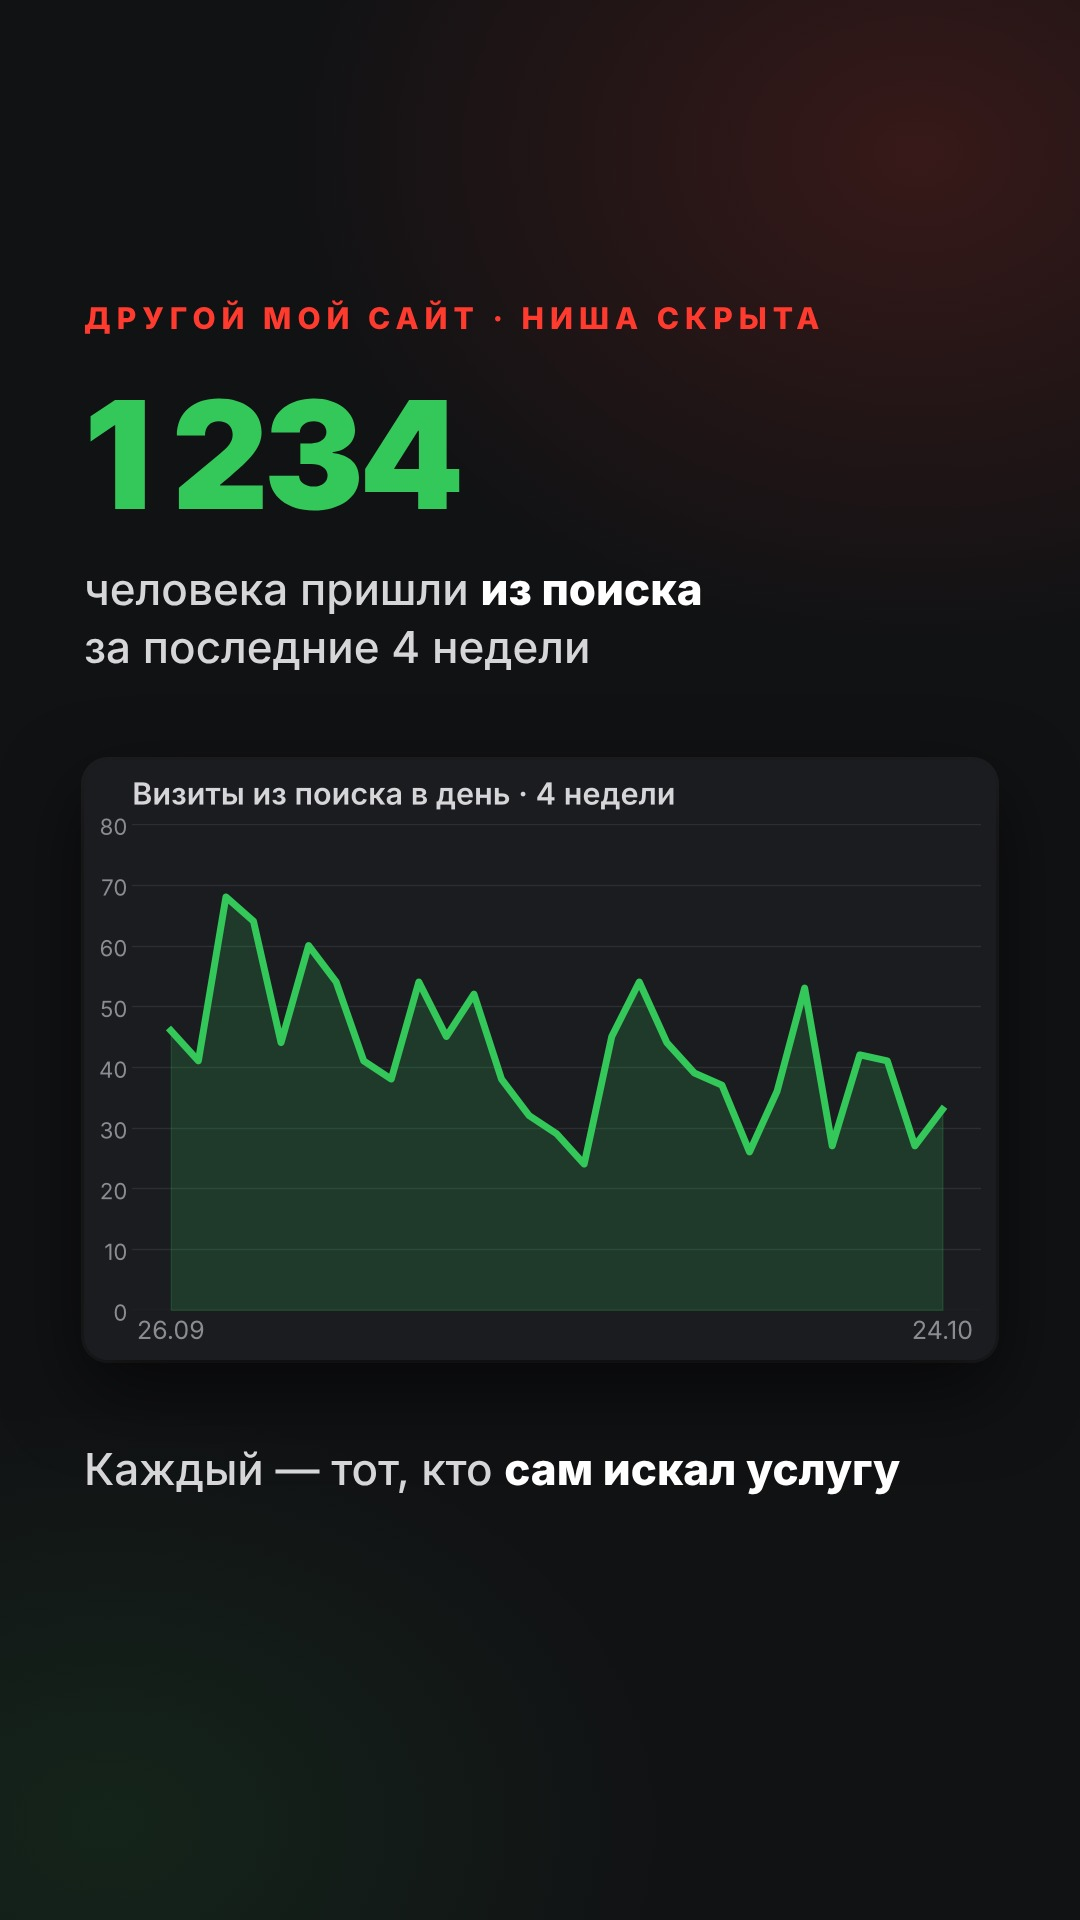
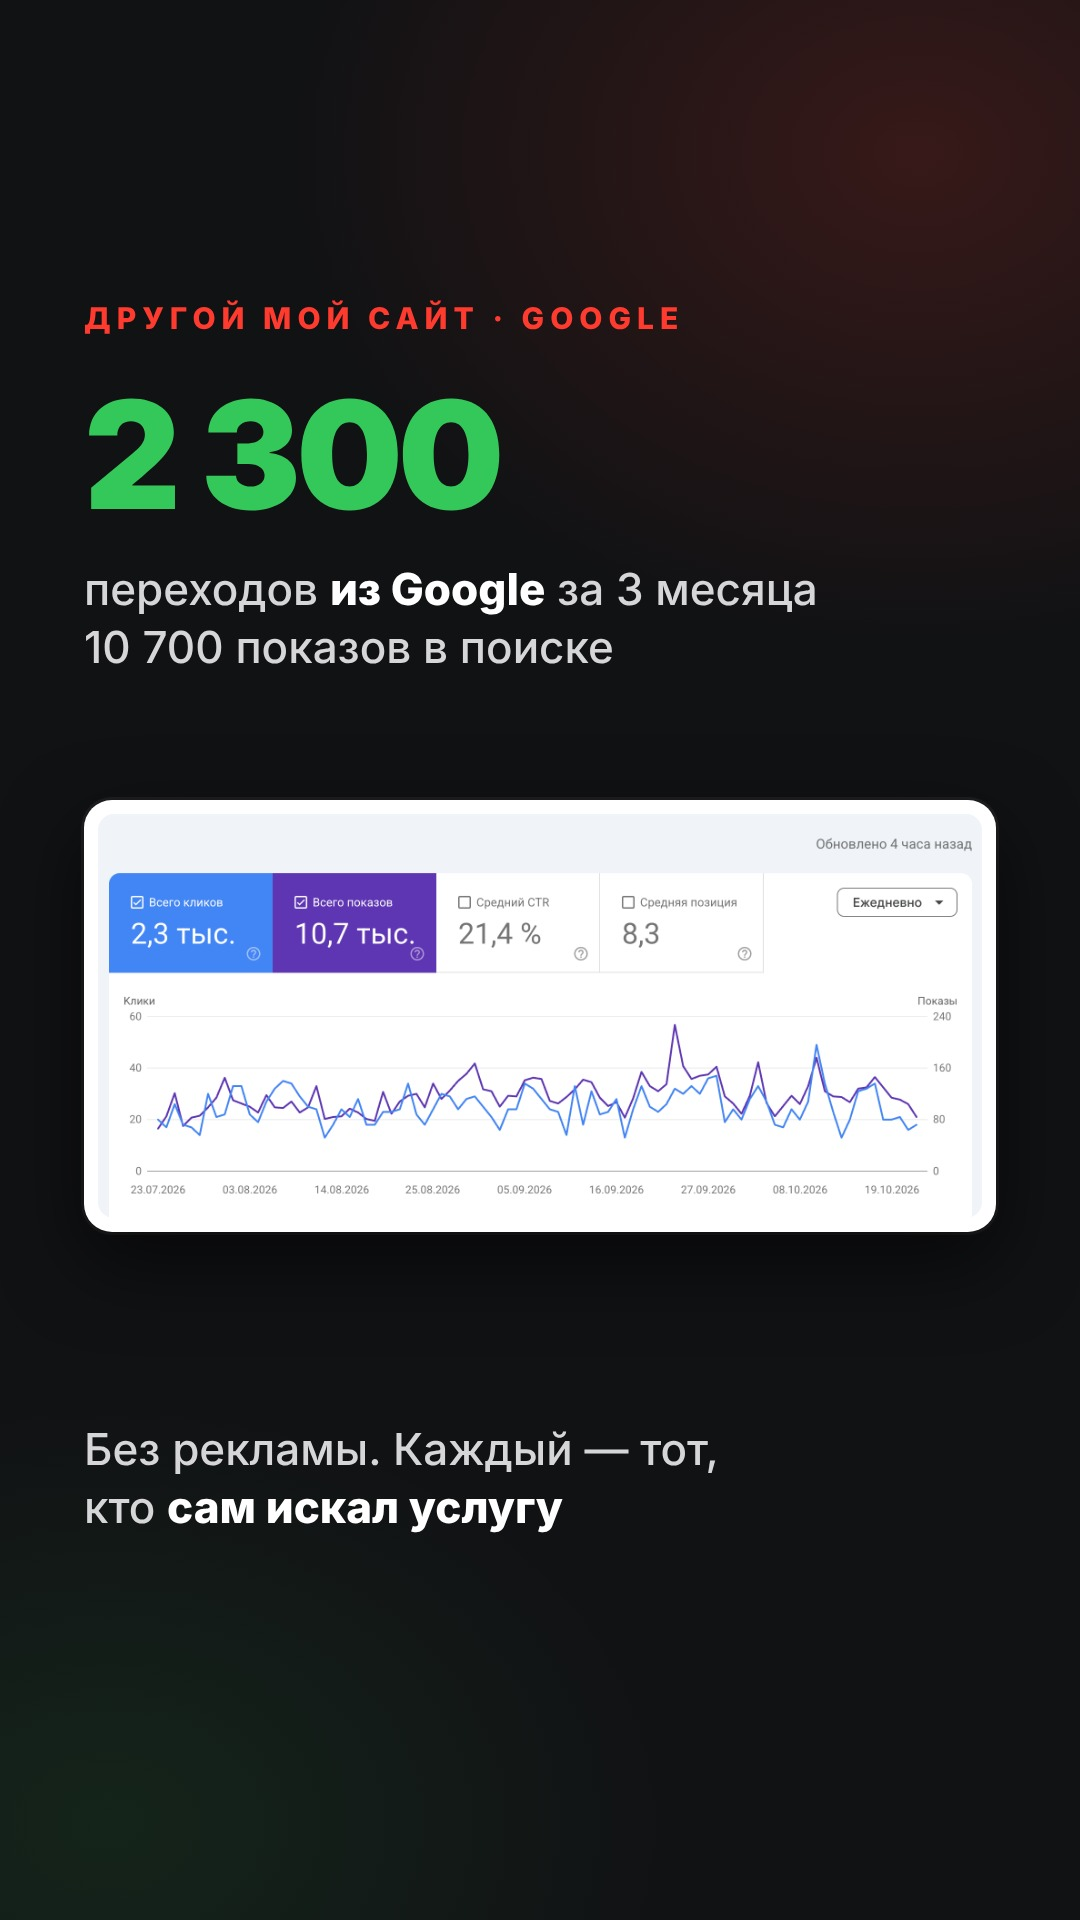
main4: GSC slide
Claude-Session: https://claude.ai/code/session_017uagM8DU7Cq2tvJ6ZU4ZAe

diff --git a/CLAUDE.md b/CLAUDE.md
@@ -264,4 +264,4 @@
 - ⚠ 24.10 kie_raw ждал только 10 мин → Kling (15–30 мин) падал по таймауту и taskId терялся (2 прогона ≈370 кр впустую: ЗАГС 4a84c1bc64 и частушки-3 06360b9803; результаты, возможно, видны в логах кабинета kie.ai). Kling делать ТОЛЬКО через story compose с частью {lipsync, image, prompt} (ждёт до 90 мин). Исправлено и задеплоено 24.10 21:55: kie_raw для kling/avatar ждёт 90 мин, taskId пишется в лог и в ошибку, model "_record" {taskId} — достать результат задачи. Перезапуск: alina-babushka dd343f27dc, alina-chast3 384f072efa.
 - 24.10 ГОТОВО (ждут «ок»): частушки-3 /f/alina-chast3/reel.mp4 (24,2 с, 192 кр, чисто); ЗАГС /f/alina-babushka/reel.mp4 = исходник Kling (23 с, 184 кр) — Kling нарисовал фейк-текст на халате бабушки 6–9,5 и 16–18,5 с → размыт delogo (x380 y1450 w420 h110) локально: media/alina/zags_clean.mp4. Кроп [0.12,0,0.76,0.76] для этой сцены плох (лица внизу, пусто сверху). ⚠ На групповом кадре Kling анимирует губы у ЦЕНТРАЛЬНОГО лица (бабушки) — для «поёт Алина» ставить Алину в центр и крупнее.
 - 24.10 ОПУБЛИКОВАНО: частушки-3 IG Алины 24.10 21:56 (id 91, instagram.com/reel/De408RQGqbt) + YouTube «Алина поёт» сразу (Postiz cmvmrgsj504t8n31co4m97utq). ЗАГС (reel_clean.mp4): IG 25.10 20:00 (id 92), YouTube 25.10 20:00 (cmvmrgsmr04t9n31czg07gw7w). Не поставлены ещё: ch1, ch2, alina-papa (IG). Новые ролики Алины нужны с 26.10.
-- 25.10 ночью: прогрев сторис vip_malakh «Сайт за неделю» media/stories/main4 (9 шт., шаблон story_main.html): опрос цены → агентство сотни тысяч/полгода → 100–200 страниц (пример структуры «ремонт квартир») → как делаю → реальный рост нового сайта (записка-матроне, ниша скрыта: 1→39 визитов/день за 2 нед.) → другой сайт (русификация, ниша скрыта: 1 234 визита из поиска за 4 нед.) → сравнение 30 000 ₽ / 7 дней → кому подходит → 5 мест, слово САЙТ. Фейковый скрин с выдуманным трафиком делать отказался — только реальные данные Метрики без доменов. Ждёт «ок» → публикация 25.10 с 9:00 до ~13:00 (свой публикатор, account main, kind story).
+- 25.10 ночью: прогрев сторис vip_malakh «Сайт за неделю» media/stories/main4 (9 шт., шаблон story_main.html): опрос цены → агентство сотни тысяч/полгода → 100–200 страниц (пример структуры «ремонт квартир») → как делаю → реальный рост нового сайта (записка-матроне, ниша скрыта: 1→39 визитов/день за 2 нед.) → другой сайт — скрин GSC пользователя (2,3 тыс. кликов, 10,7 тыс. показов за 3 мес., ниша не указана) → сравнение 30 000 ₽ / 7 дней → кому подходит → 5 мест, слово САЙТ. Фейковый скрин с выдуманным трафиком делать отказался — только реальные данные Метрики без доменов. Ждёт «ок» → публикация 25.10 с 9:00 до ~13:00 (свой публикатор, account main, kind story).
